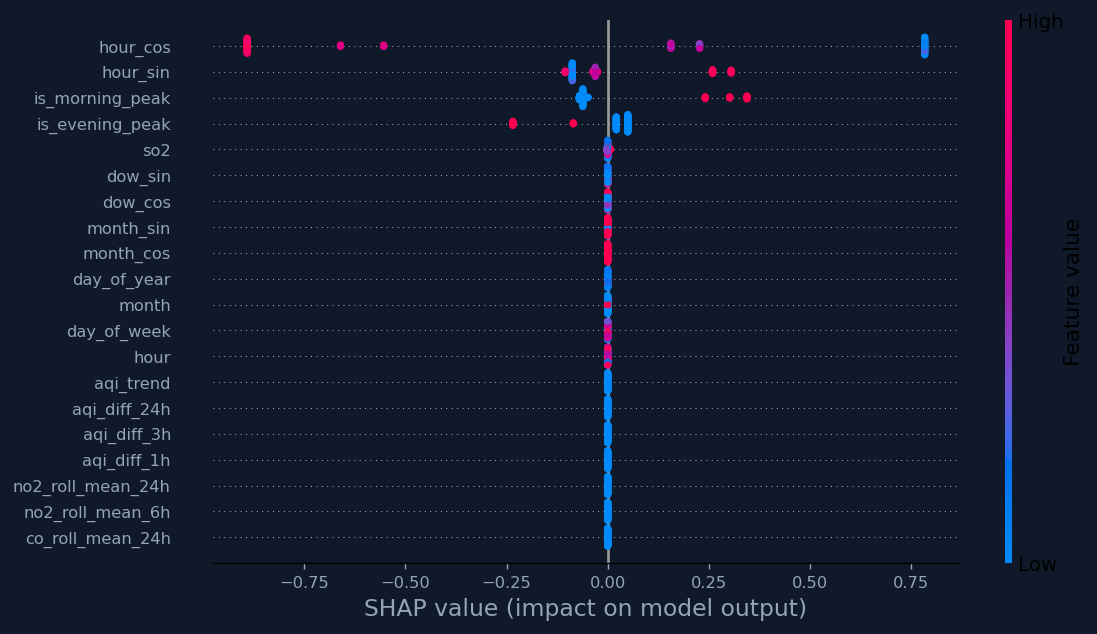
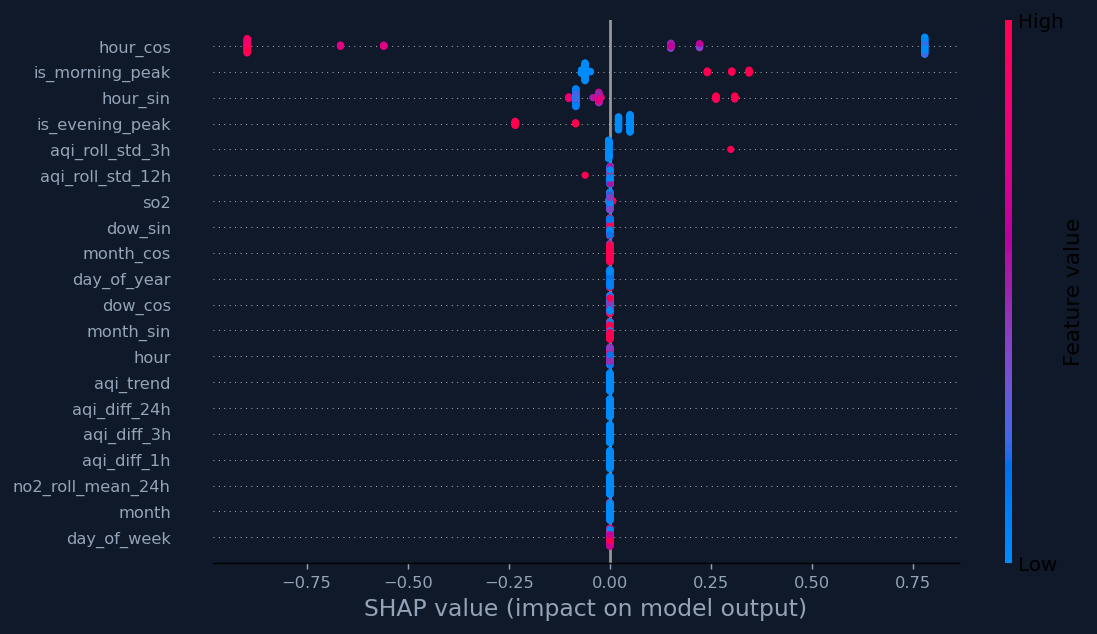
fix: correct CO unit conversion μg/m³ → mg/m³ → ppm for EPA AQI

diff --git a/src/data_ingestion.py b/src/data_ingestion.py
@@ -18,8 +18,9 @@ if not API_KEY:
 
 # ─────────────────────────────────────────────────────────────
 # 2. EPA AQI Calculator
-# Converts raw pollutant concentrations → official EPA AQI (0–500)
-# This is the same formula used by AirNow, IQAir, and EPA itself
+# OpenWeather units:
+#   pm2_5, pm10, no2, so2, o3 → μg/m³
+#   co                        → μg/m³  ← NOT mg/m³ !
 # ─────────────────────────────────────────────────────────────
 def calculate_epa_aqi(pm25=None, pm10=None, no2=None, o3=None, so2=None, co=None):
     """
@@ -32,13 +33,13 @@ def calculate_epa_aqi(pm25=None, pm10=None, no2=None, o3=None, so2=None, co=None
     def aqi_pm25(c):
         """PM2.5 in μg/m³"""
         bp = [
-            (0.0,   12.0,   0,   50),
-            (12.1,  35.4,  51,  100),
-            (35.5,  55.4, 101,  150),
-            (55.5, 150.4, 151,  200),
-            (150.5,250.4, 201,  300),
-            (250.5,350.4, 301,  400),
-            (350.5,500.4, 401,  500),
+            (0.0,   12.0,   0,  50),
+            (12.1,  35.4,  51, 100),
+            (35.5,  55.4, 101, 150),
+            (55.5, 150.4, 151, 200),
+            (150.5,250.4, 201, 300),
+            (250.5,350.4, 301, 400),
+            (350.5,500.4, 401, 500),
         ]
         for lo, hi, alo, ahi in bp:
             if lo <= c <= hi:
@@ -62,7 +63,7 @@ def calculate_epa_aqi(pm25=None, pm10=None, no2=None, o3=None, so2=None, co=None
         return 500
 
     def aqi_no2(c):
-        """NO2 in μg/m³ → convert to ppb (1 ppb = 1.88 μg/m³)"""
+        """NO2 in μg/m³ → ppb (divide by 1.88)"""
         c = c / 1.88
         bp = [
             (0,    53,   0,  50),
@@ -79,7 +80,7 @@ def calculate_epa_aqi(pm25=None, pm10=None, no2=None, o3=None, so2=None, co=None
         return 500
 
     def aqi_o3(c):
-        """O3 in μg/m³ → convert to ppb (1 ppb = 1.96 μg/m³)"""
+        """O3 in μg/m³ → ppb (divide by 1.96)"""
         c = c / 1.96
         bp = [
             (0,   54,   0,  50),
@@ -94,7 +95,7 @@ def calculate_epa_aqi(pm25=None, pm10=None, no2=None, o3=None, so2=None, co=None
         return 300
 
     def aqi_so2(c):
-        """SO2 in μg/m³ → convert to ppb (1 ppb = 2.62 μg/m³)"""
+        """SO2 in μg/m³ → ppb (divide by 2.62)"""
         c = c / 2.62
         bp = [
             (0,   35,   0,  50),
@@ -111,8 +112,13 @@ def calculate_epa_aqi(pm25=None, pm10=None, no2=None, o3=None, so2=None, co=None
         return 500
 
     def aqi_co(c):
-        """CO in mg/m³ → convert to ppm (1 ppm = 1.145 mg/m³)"""
-        c = c / 1.145
+        """
+        CO from OpenWeather is in μg/m³
+        Step 1: μg/m³ → mg/m³ (divide by 1000)
+        Step 2: mg/m³ → ppm  (divide by 1.145)
+        """
+        c = c / 1000    # ← KEY FIX: μg/m³ to mg/m³
+        c = c / 1.145   # mg/m³ to ppm
         bp = [
             (0,    4.4,   0,  50),
             (4.5,  9.4,  51, 100),
@@ -168,11 +174,12 @@ available_columns = [col for col in core_columns if col in df.columns]
 df = df[available_columns]
 
 # ─────────────────────────────────────────────────────────────
-# 5. Replace OpenWeather 1–5 AQI with EPA AQI (0–500)
-# OpenWeather returns AQI on a 1–5 scale which is NOT compatible
-# with our model trained on EPA AQI (0–500 scale)
+# 5. Replace OpenWeather 1–5 AQI with proper EPA AQI (0–500)
 # ─────────────────────────────────────────────────────────────
 print(f"OpenWeather raw AQI (1-5 scale): {df['aqi'].values[0]}")
+print(f"Raw pollutants → PM2.5:{df['pm2_5'].values[0]:.1f} PM10:{df['pm10'].values[0]:.1f} "
+      f"NO2:{df['no2'].values[0]:.1f} O3:{df['o3'].values[0]:.1f} "
+      f"SO2:{df['so2'].values[0]:.1f} CO:{df['co'].values[0]:.1f} μg/m³")
 
 df["aqi"] = df.apply(lambda row: calculate_epa_aqi(
     pm25=row.get("pm2_5"),
@@ -189,8 +196,6 @@ print(df)
 
 # ─────────────────────────────────────────────────────────────
 # 6. Stream to BigQuery
-# Uses Application Default Credentials (ADC) automatically
-# Works locally (gcloud auth) and in CI/CD (WIF token)
 # ─────────────────────────────────────────────────────────────
 PROJECT_ID = "pearl-aqi-predictor"
 REGION     = "us-central1"
@@ -202,7 +207,7 @@ print("\nConnecting to Google Cloud Platform via Application Default Credentials
 aiplatform.init(project=PROJECT_ID, location=REGION)
 bq_client = bigquery.Client(project=PROJECT_ID)
 
-print(f"Streaming new telemetry vector directly to GCP table: {table_path}...")
+print(f"Streaming to GCP table: {table_path}...")
 pandas_gbq.to_gbq(
     df,
     destination_table=table_path,
@@ -210,4 +215,4 @@ pandas_gbq.to_gbq(
     if_exists="append"
 )
 
-print(f"Success! Ingestion task finished. EPA AQI={df['aqi'].values[0]} appended to BigQuery.")
+print(f"Success! EPA AQI={df['aqi'].values[0]} appended to BigQuery.")